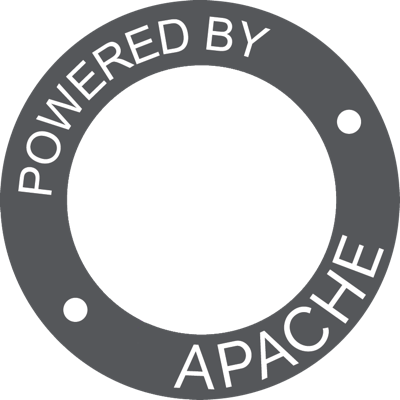
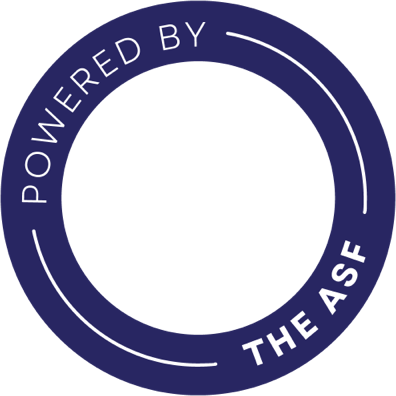
Preview/paulau (#590)
* updated powered generator

* forgot this

* adding another redirect

* adding no trailing slash variation

* redirect updates

* redirect updates

* fixing typo

* build failed bump

* more redirect updates

diff --git a/content/foundation/press/kit/index.md b/content/foundation/press/kit/index.md
@@ -80,3 +80,60 @@ The official event logo for Community Over Code, ASF's flagship annual event.
 *   [Community Over Code AI](community_over_code_logo.ai)
 *   [Community Over Code PNG](community_over_code_logo.png)
 *   [Community Over Code SVG](community_over_code_logo.svg)
+
+### Template for "Powered By" Logos 
+
+<p>The new blank template for the “Powered By” logos as well as select project “Powered By” logos can be downloaded <a href="https://apache.org/foundation/press/kit/poweredBy/powered-by-template-2019">on our template site</a>. The old template (black “powered by” band) is deprecated and should not be used for any current graphics use.</p>
+
+<p><a class="btn btn-primary" role="button" data-toggle="collapse" href="#buildPoweredByBadge" aria-expanded="false" aria-controls="buildPoweredByBadge">Build Your Badge</a></p>
+
+
+<div class="collapse mt-medium" id="buildPoweredByBadge">
+    <div class="well">
+        <style type="text/css">
+            canvas#canvas_poweredBy_1,
+            canvas#canvas_poweredBy_2,
+            canvas#canvas_poweredBy_3  {
+                display: none;
+            }
+            .poweredBy_canvas_container img  {
+                margin: 0 20px 20px 0;
+                float: left;
+                max-width: 350px;
+            }
+            input#btnLoad  {
+                padding: 2px 5px;
+                background: white;
+                border: thin solid black;
+                font-family: "Super Grotesk";
+            }
+        </style>
+        <div id="PoweredByOverlay">
+            <p>With this handy tool you can create your own Project Powered By Badge.</p>
+            <ol>
+                <li>Select your logo saved in a square format. (Non square images may result in improperly cropped results.)</li>
+                <li>Your logo will be displayed in the Powered By badge.</li>
+                <li>Now you can save it and use as needed.</li>
+            </ol>
+            <!-- Change the js-files path here -->
+            <script type="text/javascript" src="overlays/poweredBy-overlay.js"></script>
+            <noscript>Sorry, your browser settings do not support JavaScript!</noscript>
+            <form action="#" id="poweredBy_form" åonsubmit="return false;">
+                <input id="poweredByImgFile" type="file" />
+                <br />
+                <input
+                id="btnLoad"
+                onclick="loadPoweredByImage();"
+                type="button"
+                value="Generate"
+                />&nbsp;
+            </form>
+            <br />
+            <div class="poweredBy_canvas_container">
+                <canvas id="canvas_poweredBy_1"></canvas>
+                <img alt="Powered By" id="img_poweredBy_1" src="" />
+            </div>
+            <div class="clearfix">&nbsp;</div>
+        </div>
+    </div>
+</div>
